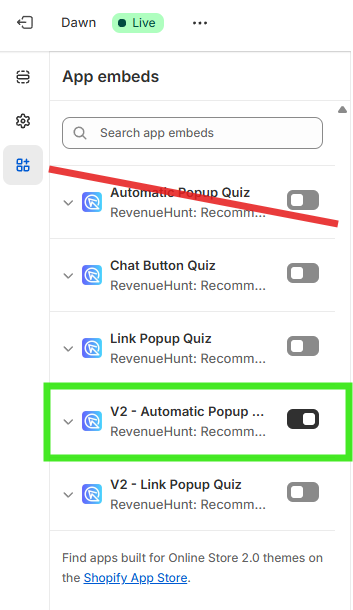
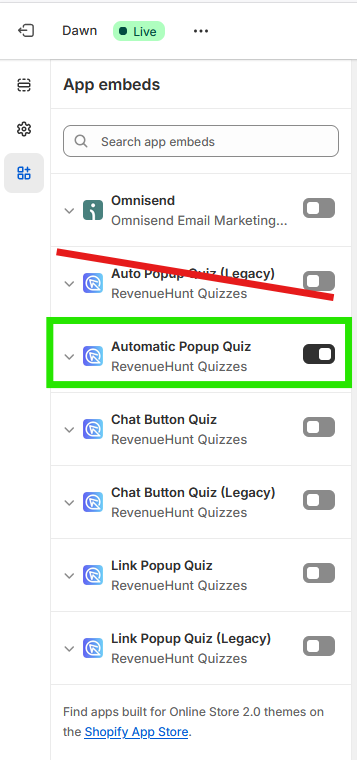
docs: update quiz publishing instructions for Shopify, correcting references to legacy options and enhancing clarity in activation steps across multiple guides

diff --git a/docs/how-to-guides/publish-quiz-automatic-popup.md b/docs/how-to-guides/publish-quiz-automatic-popup.md
@@ -50,7 +50,7 @@ Before You Start:
         Quizzes created with Shopify V2 cannot be published on Shopify 1.0 themes. Shopify 1.0 themes do not support app embeds, which are required for the V2 integration. App embeds are a feature available in Online Store 2.0 themes, which allow you to add app functionality without touching any code. If you want to use app embeds, you would need to upgrade to an Online Store 2.0 theme.
 
     1. **Access Theme Customization**: Log in to your Shopify admin dashboard. Navigate to `Online Store > Themes`. Find your current theme and click on the `Customize` button.
-    2. **Activate App Embeds**: Within the theme customization area, go to `App Embeds`. Look for the V2 - Automatic Popup Quiz option and toggle it on.
+    2. **Activate App Embeds**: Within the theme customization area, go to `App Embeds`. Look for the `Automatic Popup Quiz` option and toggle it on.
         ![manual_shopifyV2_quizbuilder_share_publish_onlinestore_automatic](/images/manual_shopifyV2_quizbuilder_share_publish_onlinestore_automatic.png)
     3. **Configure Popup Settings**: 
 
@@ -136,7 +136,7 @@ Before You Start:
 
     1. **Access Theme Customization**: Log in to your Shopify admin dashboard. Navigate to `Online Store > Themes`. Find your current theme and click on the `Customize` button.
     2. Go to your specific page theme and edit it. If you don't have a specific page theme, create one and apply it to the page via the Online Store > Pages section.
-    3. **Activate App Embeds**: Within the theme customization area, go to `App Embeds`. Look for the V2 - Automatic Popup Quiz option and toggle it on.
+    3. **Activate App Embeds**: Within the theme customization area, go to `App Embeds`. Look for the `Automatic Popup Quiz` option and toggle it on.
         ![manual_shopifyV2_quizbuilder_share_publish_onlinestore_automatic](/images/manual_shopifyV2_quizbuilder_share_publish_onlinestore_automatic.png)
     4. **Configure Popup Settings**: 
 
@@ -222,7 +222,7 @@ Before You Start:
         Quizzes created with Shopify V2 cannot be published on Shopify 1.0 themes. Shopify 1.0 themes do not support app embeds, which are required for the V2 integration. App embeds are a feature available in Online Store 2.0 themes, which allow you to add app functionality without touching any code. If you want to use app embeds, you would need to upgrade to an Online Store 2.0 theme.
 
     1. **Access Theme Customization**: Log in to your Shopify admin dashboard. Navigate to `Online Store > Themes`. Find your current theme and click on the `Customize` button.
-    2. **Activate App Embeds**: Within the theme customization area, go to `App Embeds`. Look for the V2 - Automatic Popup Quiz option and toggle it on.
+    2. **Activate App Embeds**: Within the theme customization area, go to `App Embeds`. Look for the `Automatic Popup Quiz` option and toggle it on.
         ![manual_shopifyV2_quizbuilder_share_publish_onlinestore_automatic](/images/manual_shopifyV2_quizbuilder_share_publish_onlinestore_automatic.png)
     3. **Configure Popup Settings**: 
 
@@ -335,7 +335,7 @@ Before You Start:
         Quizzes created with Shopify V2 cannot be published on Shopify 1.0 themes. Shopify 1.0 themes do not support app embeds, which are required for the V2 integration. App embeds are a feature available in Online Store 2.0 themes, which allow you to add app functionality without touching any code. If you want to use app embeds, you would need to upgrade to an Online Store 2.0 theme.
 
     1. **Access Theme Customization**: Log in to your Shopify admin dashboard. Navigate to `Online Store > Themes`. Find your current theme and click on the `Customize` button.
-    2. **Activate App Embeds**: Within the theme customization area, go to `App Embeds`. Look for the V2 - Automatic Popup Quiz option and toggle it on.
+    2. **Activate App Embeds**: Within the theme customization area, go to `App Embeds`. Look for the `Automatic Popup Quiz` option and toggle it on.
         ![manual_shopifyV2_quizbuilder_share_publish_onlinestore_automatic](/images/manual_shopifyV2_quizbuilder_share_publish_onlinestore_automatic.png)
     3. **Configure Exit Intent**: 
 
@@ -489,12 +489,12 @@ Before You Start:
 
     If you see the error message "The quiz you are looking for does not exist" when trying to activate an automatic popup quiz, follow these steps:
 
-    1. Ensure that you have activated the `V2 - Automatic Popup Quiz` in the  Online Store > Theme > Customize > `App Embeds` and **not** the the regular `Automatic Popup Quiz`.
+    1. Ensure that you have activated the `Automatic Popup Quiz` in the  Online Store > Theme > Customize > `App Embeds` and **not** the the legacy `Automatic Popup Quiz Legacy`.
         ![how_to_publish_shipifyV2_V1publisherrorautomaticpopup](/images/how_to_publish_shipifyV2_V1publisherrorautromaticpopup.png)
 
         If a wrong automatic popup quiz is activated, you will see the error message "The quiz you are looking for does not exist" when trying to link to a V2 quiz. 
         
-        To solve this simply deactivate the `Automatic Popup Quiz` and activate the `V2 - Automatic Popup Quiz` one. 
+        To solve this simply deactivate the `Automatic Popup Quiz Legacy` and activate the `Automatic Popup Quiz` one. 
     2. Save the changes.
 
 === "WooCommerce"

diff --git a/docs/how-to-guides/publish-quiz-inline.md b/docs/how-to-guides/publish-quiz-inline.md
@@ -35,7 +35,7 @@ Place the quiz on your homepage to start collecting leads from first-time visito
         Quizzes created with Shopify V2 cannot be published on Shopify 1.0 themes. Shopify 1.0 themes do not support app embeds, which are required for the V2 integration. App embeds are a feature available in Online Store 2.0 themes, which allow you to add app functionality without touching any code. If you want to use app embeds, you would need to upgrade to an Online Store 2.0 theme.
 
     1. **Navigate to Theme Customization**: Go to `Online Store > Themes` in your Shopify dashboard. Click the `Customize` button for your active theme.
-    2. **Add Inline Quiz Section**: Click `+ Add Section`, then scroll to `Apps` and find `V2 - Inline Quiz from RevenueHunt`. Select it to add to your homepage.
+    2. **Add Inline Quiz Section**: Click `+ Add Section`, then scroll to `Apps` and find `Inline Quiz from RevenueHunt`. Select it to add to your homepage.
         ![how to publish inline quiz shopify v2 main page](/images/how_to_publish_inline_quiz_shopify_v2_main_page.png)
 
         The default quiz for your store will be rendered. If you’ve configured [Shopify Markets](/reference/app-settings/#__tabbed_5_2), the default quiz for that specific market will be shown instead.
@@ -122,7 +122,7 @@ Create a dedicated landing page for the quiz to drive traffic from paid ads or m
         Navigate to `Pages` and click on the `Create template` link. Name your template (e.g., quiz-page) and set it as "Based on" your Default page template. 
         ![Create a new Page template](/images/landing-page-create-b.png)
     
-    3. **Add Inline Quiz Section**: Click on the `Add section` link and from the `Apps` section, find `V2 - Inline Quiz` from RevenueHunt. Select it to add to your quiz page template.
+    3. **Add Inline Quiz Section**: Click on the `Add section` link and from the `Apps` section, find `Inline Quiz` from RevenueHunt. Select it to add to your quiz page template.
         ![Add section inline quiz](/images/landing-page-add-section-app-inline-quiz.png)
 
     4. **Configure Quiz Settings**: Click on the added quiz section to configure. Adjust settings like quiz height, disable auto-scroll, or fix quiz height for consistent results page height.
@@ -296,7 +296,7 @@ To prevent the quiz from adjusting size based on content, manually set a fixed w
 === "Shopify V2"
 
     1. **Navigate to Theme Customization**: Go to `Online Store > Themes` in your Shopify dashboard. Click the `Customize` button for your active theme.
-    2. **Add Inline Quiz Section**: Click `+ Add Section`, then scroll to `Apps` and find `V2 -Inline Quiz from RevenueHunt`. Select it to add to your homepage.
+    2. **Add Inline Quiz Section**: Click `+ Add Section`, then scroll to `Apps` and find `Inline Quiz` from RevenueHunt. Select it to add to your homepage.
     3. **Configure Quiz Settings**: Click on the added quiz section to configure. Select the desired Quiz ID to embed and adjust settings like quiz height, disable auto-scroll, or fix quiz height for consistent results page height. Check the `Fixed size` option.
     4. **Save Changes**: Ensure all changes are saved before exiting the theme editor.   
 
@@ -367,7 +367,7 @@ To prevent the quiz from adjusting size based on content, manually set a fixed w
 === "Shopify V2"
 
     1. **Navigate to Theme Customization**: Go to `Online Store > Themes` in your Shopify dashboard. Click the `Customize` button for your active theme.
-    2. **Add Inline Quiz Section**: Click `+ Add Section`, then scroll to `Apps` and find `V2 - Inline Quiz from RevenueHunt`. Select it to add to your homepage.
+    2. **Add Inline Quiz Section**: Click `+ Add Section`, then scroll to `Apps` and find `Inline Quiz` from RevenueHunt. Select it to add to your homepage.
     3. **Configure Quiz Settings**: Click on the added quiz section to configure. Select the desired Quiz ID to embed and adjust settings. Uncheck the `Automatic Scroll into View` option.
     4. **Save Changes**: Ensure all changes are saved before exiting the theme editor.
 
@@ -448,12 +448,12 @@ To prevent the quiz from adjusting size based on content, manually set a fixed w
 
     If you see the error message "The quiz you are looking for does not exist" when trying to embed a quiz, follow these steps:
 
-    1. Ensure that you have activated the `V2 - Inline Quiz` in the  Online Store > Theme > Customize > `+ Section` > `Apps` and **not** the the regular `Inline Quiz`.
+    1. Ensure that you have activated the `Inline Quiz` in the  Online Store > Theme > Customize > `+ Section` > `Apps` and **not** the the legacy `Inline Quiz Legacy`.
         ![how_to_publish_shipifyV2_V1publisherrorinlinequiz](/images/how_to_publish_shipifyV2_V1publisherrorinlinequiz.png)
 
         If a wrong inline quiz is activated, you will see the error message "The quiz you are looking for does not exist" when trying to link to a V2 quiz. 
         
-        To solve this simply deactivate the `Inline Quiz` and activate the `V2 - Inline Quiz` one. 
+        To solve this simply deactivate the `Inline Quiz Legacy` and activate the `Inline Quiz` one. 
     2. Save the changes.
 
 === "WooCommerce"

diff --git a/docs/how-to-guides/publish-quiz-chat-button.md b/docs/how-to-guides/publish-quiz-chat-button.md
@@ -34,7 +34,23 @@ Make sure you have:
 
 === "Shopify V2"
 
-    Coming Soon
+    !!! warning "Shopify 1.0 Theme Compatibility"
+        Quizzes created with Shopify V2 cannot be published on Shopify 1.0 themes. Shopify 1.0 themes do not support app embeds, which are required for the V2 integration. App embeds are a feature available in Online Store 2.0 themes, which allow you to add app functionality without touching any code. If you want to use app embeds, you would need to upgrade to an Online Store 2.0 theme.
+
+    1. **Access Theme Customization**: Log in to your Shopify admin dashboard. Navigate to `Online Store > Themes`. Find your current theme and click on the `Customize` button.
+    2. **Activate App Embeds**: Within the theme customization area, go to `App Embeds`. Look for the Chat Popup Quiz option and toggle it on.
+        ![manual_shopifyV2_quizbuilder_share_publish_onlinestore_chat](/images/manual_shopifyV2_quizbuilder_share_publish_onlinestore_chat.png)
+    3. **Configure Popup Settings**: 
+
+        ![manual_shopifyV2_quizbuilder_share_publish_chat_options](/images/manual_shopifyV2_quizbuilder_share_publish_chat_options.png){width="50%"}
+
+        - Set the `Popup Delay` (in seconds) - how long to wait before showing the popup
+        - Adjust the `Popup Width` and `Height` (as percentage of screen)
+        - Set the `Popup z-index` to control layering with other elements
+        - Toggle `Trigger Popup on Exit Intent` if you want the popup to appear when users try to leave the page
+    4. **Save Changes**: Click on the Save button to ensure all changes are saved before exiting the theme editor.
+
+    When visitors come to your store, the default quiz for your store will open automatically based on your settings. If you've configured [Shopify Markets](/reference/app-settings/#__tabbed_5_2), the default quiz for that specific market will be shown instead.
 
 === "WooCommerce"
 
@@ -94,7 +110,29 @@ Make sure you have:
 
 ## Chat Button on All Pages
 
-If you want the chat button to appear across your entire store, follow the [Manual Instructions](#option-2-manual) and insert the code before the `</body>` closing tag in your shop's theme.
+=== "Shopify"
+
+    If you want the chat button to appear across your entire store, follow the [Manual Instructions](#option-2-manual) and insert the code before the `</body>` closing tag in your shop's theme.
+
+=== "Shopify V2"
+
+    Coming Soon
+
+=== "WooCommerce"
+
+    If you want the chat button to appear across your entire store, follow the [Manual Instructions](#option-2-manual) and insert the code before the `</body>` closing tag in your shop's theme.
+
+=== "Magento"
+
+    If you want the chat button to appear across your entire store, follow the [Manual Instructions](#option-2-manual) and insert the code before the `</body>` closing tag in your shop's theme.
+
+=== "BigCommerce"
+
+    If you want the chat button to appear across your entire store, follow the [Manual Instructions](#option-2-manual) and insert the code before the `</body>` closing tag in your shop's theme.
+
+=== "Standalone"
+
+    If you want the chat button to appear across your entire store, follow the [Manual Instructions](#option-2-manual) and insert the code before the `</body>` closing tag in your shop's theme.
 
 
 ## The quiz you are looking for does not exist
@@ -113,7 +151,18 @@ If you want the chat button to appear across your entire store, follow the [Manu
     
 === "Shopify V2"
 
-    Coming Soon
+    !!! warning "Shopify 1.0 Theme Compatibility"
+        Quizzes created with Shopify V2 cannot be published on Shopify 1.0 themes. Shopify 1.0 themes do not support app embeds, which are required for the V2 integration. App embeds are a feature available in Online Store 2.0 themes, which allow you to add app functionality without touching any code. If you want to use app embeds, you would need to upgrade to an Online Store 2.0 theme.
+
+    If you see the error message "The quiz you are looking for does not exist" when trying to activate an automatic popup quiz, follow these steps:
+
+    1. Ensure that you have activated the `Chat Button Quiz` in the  Online Store > Theme > Customize > `App Embeds` and **not** the the legacy `Chat Button Quiz Legacy`.
+        ![how_to_publish_shipifyV2_V1publisherrorchatbutton](/images/how_to_publish_shipifyV2_V1publisherrorchatpopup.png)
+
+        If a wrong chat button quiz is activated, you will see the error message "The quiz you are looking for does not exist" when trying to link to a V2 quiz. 
+        
+        To solve this simply deactivate the `Chat Button Quiz Legacy` and activate the `Chat Button Quiz` one. 
+    2. Save the changes.
 
 === "WooCommerce"
 

diff --git a/docs/how-to-guides/publish-quiz-external-link.md b/docs/how-to-guides/publish-quiz-external-link.md
@@ -22,7 +22,7 @@ This guide will show you how to generate an external quiz link suitable for shar
         Quizzes created with Shopify V2 cannot be published on Shopify 1.0 themes. Shopify 1.0 themes do not support app embeds, which are required for the V2 integration. App embeds are a feature available in Online Store 2.0 themes, which allow you to add app functionality without touching any code. If you want to use app embeds, you would need to upgrade to an Online Store 2.0 theme.
 
     1. **Access Theme Customization**: Log in to your Shopify admin dashboard. Navigate to `Online Store > Themes`. Find your current theme and click on the `Customize` button.
-    2. **Activate App Embeds**: Within the theme customization area, go to `App Embeds`. Look for the V2 - Link Popup Quiz option and toggle it on. This action will automatically add the RevenueHunt script to your site, enabling quiz links to load in a popup.
+    2. **Activate App Embeds**: Within the theme customization area, go to `App Embeds`. Look for the `Link Popup Quiz` option and toggle it on. This action will automatically add the RevenueHunt script to your site, enabling quiz links to load in a popup.
         ![how to publish quiz link popup app embeds](/images/how_to_publish_quiz_link_popup_app_embeds.png)
     3. **Save changes**: Click on the Save button to ensure all changes are saved before exiting the theme editor.
     4. **Copy the link to the quiz popup**: The direct link to your quiz popup is https://yourstore.myshopify.com/#quiz.
@@ -102,12 +102,12 @@ This guide will show you how to generate an external quiz link suitable for shar
 
     If you see the error message "The quiz you are looking for does not exist" when trying to link to a quiz, follow these steps:
 
-    1. Ensure that you have activated the `V2 - Link Popup Quiz` in the  Online Store > Theme > Customize > `App Embeds` section and **not** the the regular `Link Popup Quiz`.
+    1. Ensure that you have activated the `Link Popup Quiz` in the  Online Store > Theme > Customize > `App Embeds` section and **not** the the legacy `Link Popup Quiz Legacy`.
         ![docs/images/how_to_publish_shipifyV2_V1publisherrorlinkpopup.png](/images/how_to_publish_shipifyV2_V1publisherrorlinkpopup.png)
 
         If a wrong link popup is activated, you will see the error message "The quiz you are looking for does not exist" when trying to link to a V2 quiz. 
         
-        To solve this simply deactivate the `Link Popup` and activate the `V2 - Link Popup` one. Then, save the changes.
+        To solve this simply deactivate the `Link Popup Quiz Legacy` and activate the `Link Popup Quiz` one. Then, save the changes.
     2. Verify that the link is correctly formatted. Ensure that the link you've created is correctly formatted and it follows the format `#quiz`.
 
 === "WooCommerce"

diff --git a/docs/how-to-guides/publish-quiz-email-link.md b/docs/how-to-guides/publish-quiz-email-link.md
@@ -26,7 +26,7 @@ Make sure you have:
         Quizzes created with Shopify V2 cannot be published on Shopify 1.0 themes. Shopify 1.0 themes do not support app embeds, which are required for the V2 integration. App embeds are a feature available in Online Store 2.0 themes, which allow you to add app functionality without touching any code. If you want to use app embeds, you would need to upgrade to an Online Store 2.0 theme.
 
     1. **Access Theme Customization**: Log in to your Shopify admin dashboard. Navigate to `Online Store > Themes`. Find your current theme and click on the `Customize` button.
-    2. **Activate App Embeds**: Within the theme customization area, go to `App Embeds`. Look for the V2 - Link Popup Quiz option and toggle it on. This action will automatically add the RevenueHunt script to your site, enabling quiz links to load in a popup.
+    2. **Activate App Embeds**: Within the theme customization area, go to `App Embeds`. Look for the `Link Popup Quiz` option and toggle it on. This action will automatically add the RevenueHunt script to your site, enabling quiz links to load in a popup.
         ![how to publish quiz link popup app embeds](/images/how_to_publish_quiz_link_popup_app_embeds.png)
     3. **Save changes**: Click on the Save button to ensure all changes are saved before exiting the theme editor.
     4. **Copy the link to the quiz popup**: The direct link to your quiz popup is https://yourstore.myshopify.com/#quiz.
@@ -94,12 +94,12 @@ Make sure you have:
 
     If you see the error message "The quiz you are looking for does not exist" when trying to link to a quiz, follow these steps:
 
-    1. Ensure that you have activated the `V2 - Link Popup Quiz` in the  Online Store > Theme > Customize > `App Embeds` section and **not** the the regular `Link Popup Quiz`.
+    1. Ensure that you have activated the `Link Popup Quiz` in the  Online Store > Theme > Customize > `App Embeds` section and **not** the the legacy `Link Popup Quiz Legacy`.
         ![docs/images/how_to_publish_shipifyV2_V1publisherrorlinkpopup.png](/images/how_to_publish_shipifyV2_V1publisherrorlinkpopup.png)
 
         If a wrong link popup is activated, you will see the error message "The quiz you are looking for does not exist" when trying to link to a V2 quiz. 
         
-        To solve this simply deactivate the `Link Popup` and activate the `V2 - Link Popup` one. Then, save the changes.
+        To solve this simply deactivate the `Link Popup Quiz Legacy` and activate the `Link Popup Quiz` one. Then, save the changes.
     2. Verify that the link is correctly formatted. Ensure that the link you've created is correctly formatted and it follows the format `#quiz`.
 
 === "WooCommerce"

diff --git a/docs/how-to-guides/publish-quiz-link.md b/docs/how-to-guides/publish-quiz-link.md
@@ -242,7 +242,7 @@ If the Quiz Popup displays behind your website header or the `X` closing button 
     Here is how to change the z-index configuration option in the app settings:
 
     1. Go to your Shopify admin dashboard and navigate to `Online Store > Themes > Customize`.
-    2. Within theme customization, go to `App Embeds` and find the `V2 - Link Popup` settings.
+    2. Within theme customization, go to `App Embeds` and find the `Link Popup Quiz` settings.
     3. Look for the z-index setting and increase the value (try with 1000 first, if that doesn't work, try 10000).
     4. Save your changes.
 
